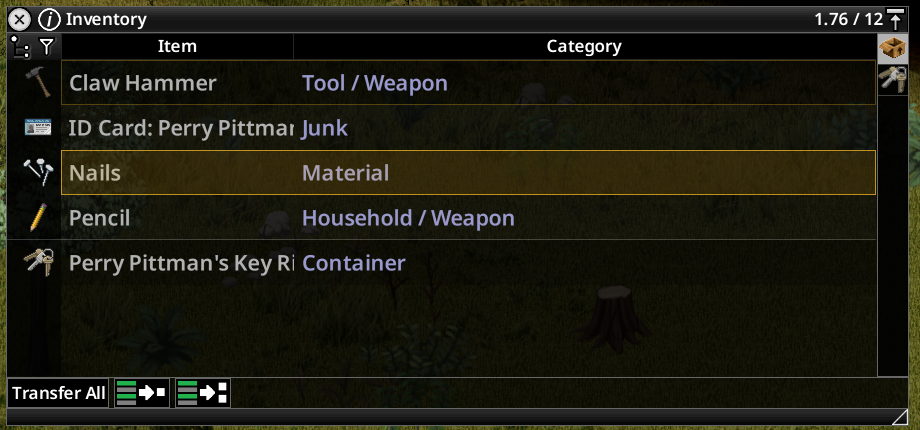
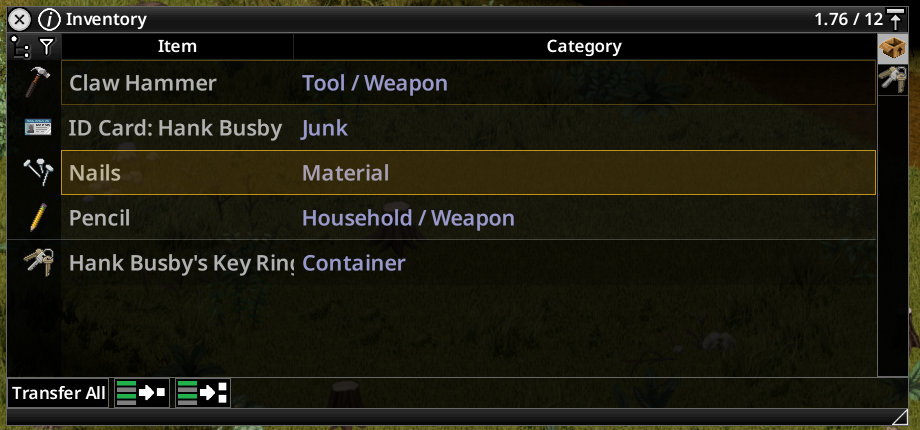
Screenshots with the new name, taken with version 1.1.0

diff --git a/README.md b/README.md
@@ -8,8 +8,7 @@ Steam Workshop: https://steamcommunity.com/sharedfiles/filedetails/?id=381724629
 
 Versions 1.0.x were published as "Bucketlist" (mod id `Bucketlist`). Since 1.1.0 the mod is called
 Shopping List with the mod id `ShoppingList`; a list saved by 1.0.x is taken over when the character
-is loaded. The Workshop page already carries the new name, but its download is still 1.0.1 with the
-old mod id until the next update.
+is loaded.
 
 ## Features
 
@@ -33,7 +32,7 @@ old mod id until the next update.
 
 ## Screenshots
 
-Taken in game 42.21.0 with version 1.0.1, when the mod was still called Bucketlist.
+Taken in game 42.21.0 with version 1.1.0.
 
 | | |
 |---|---|
